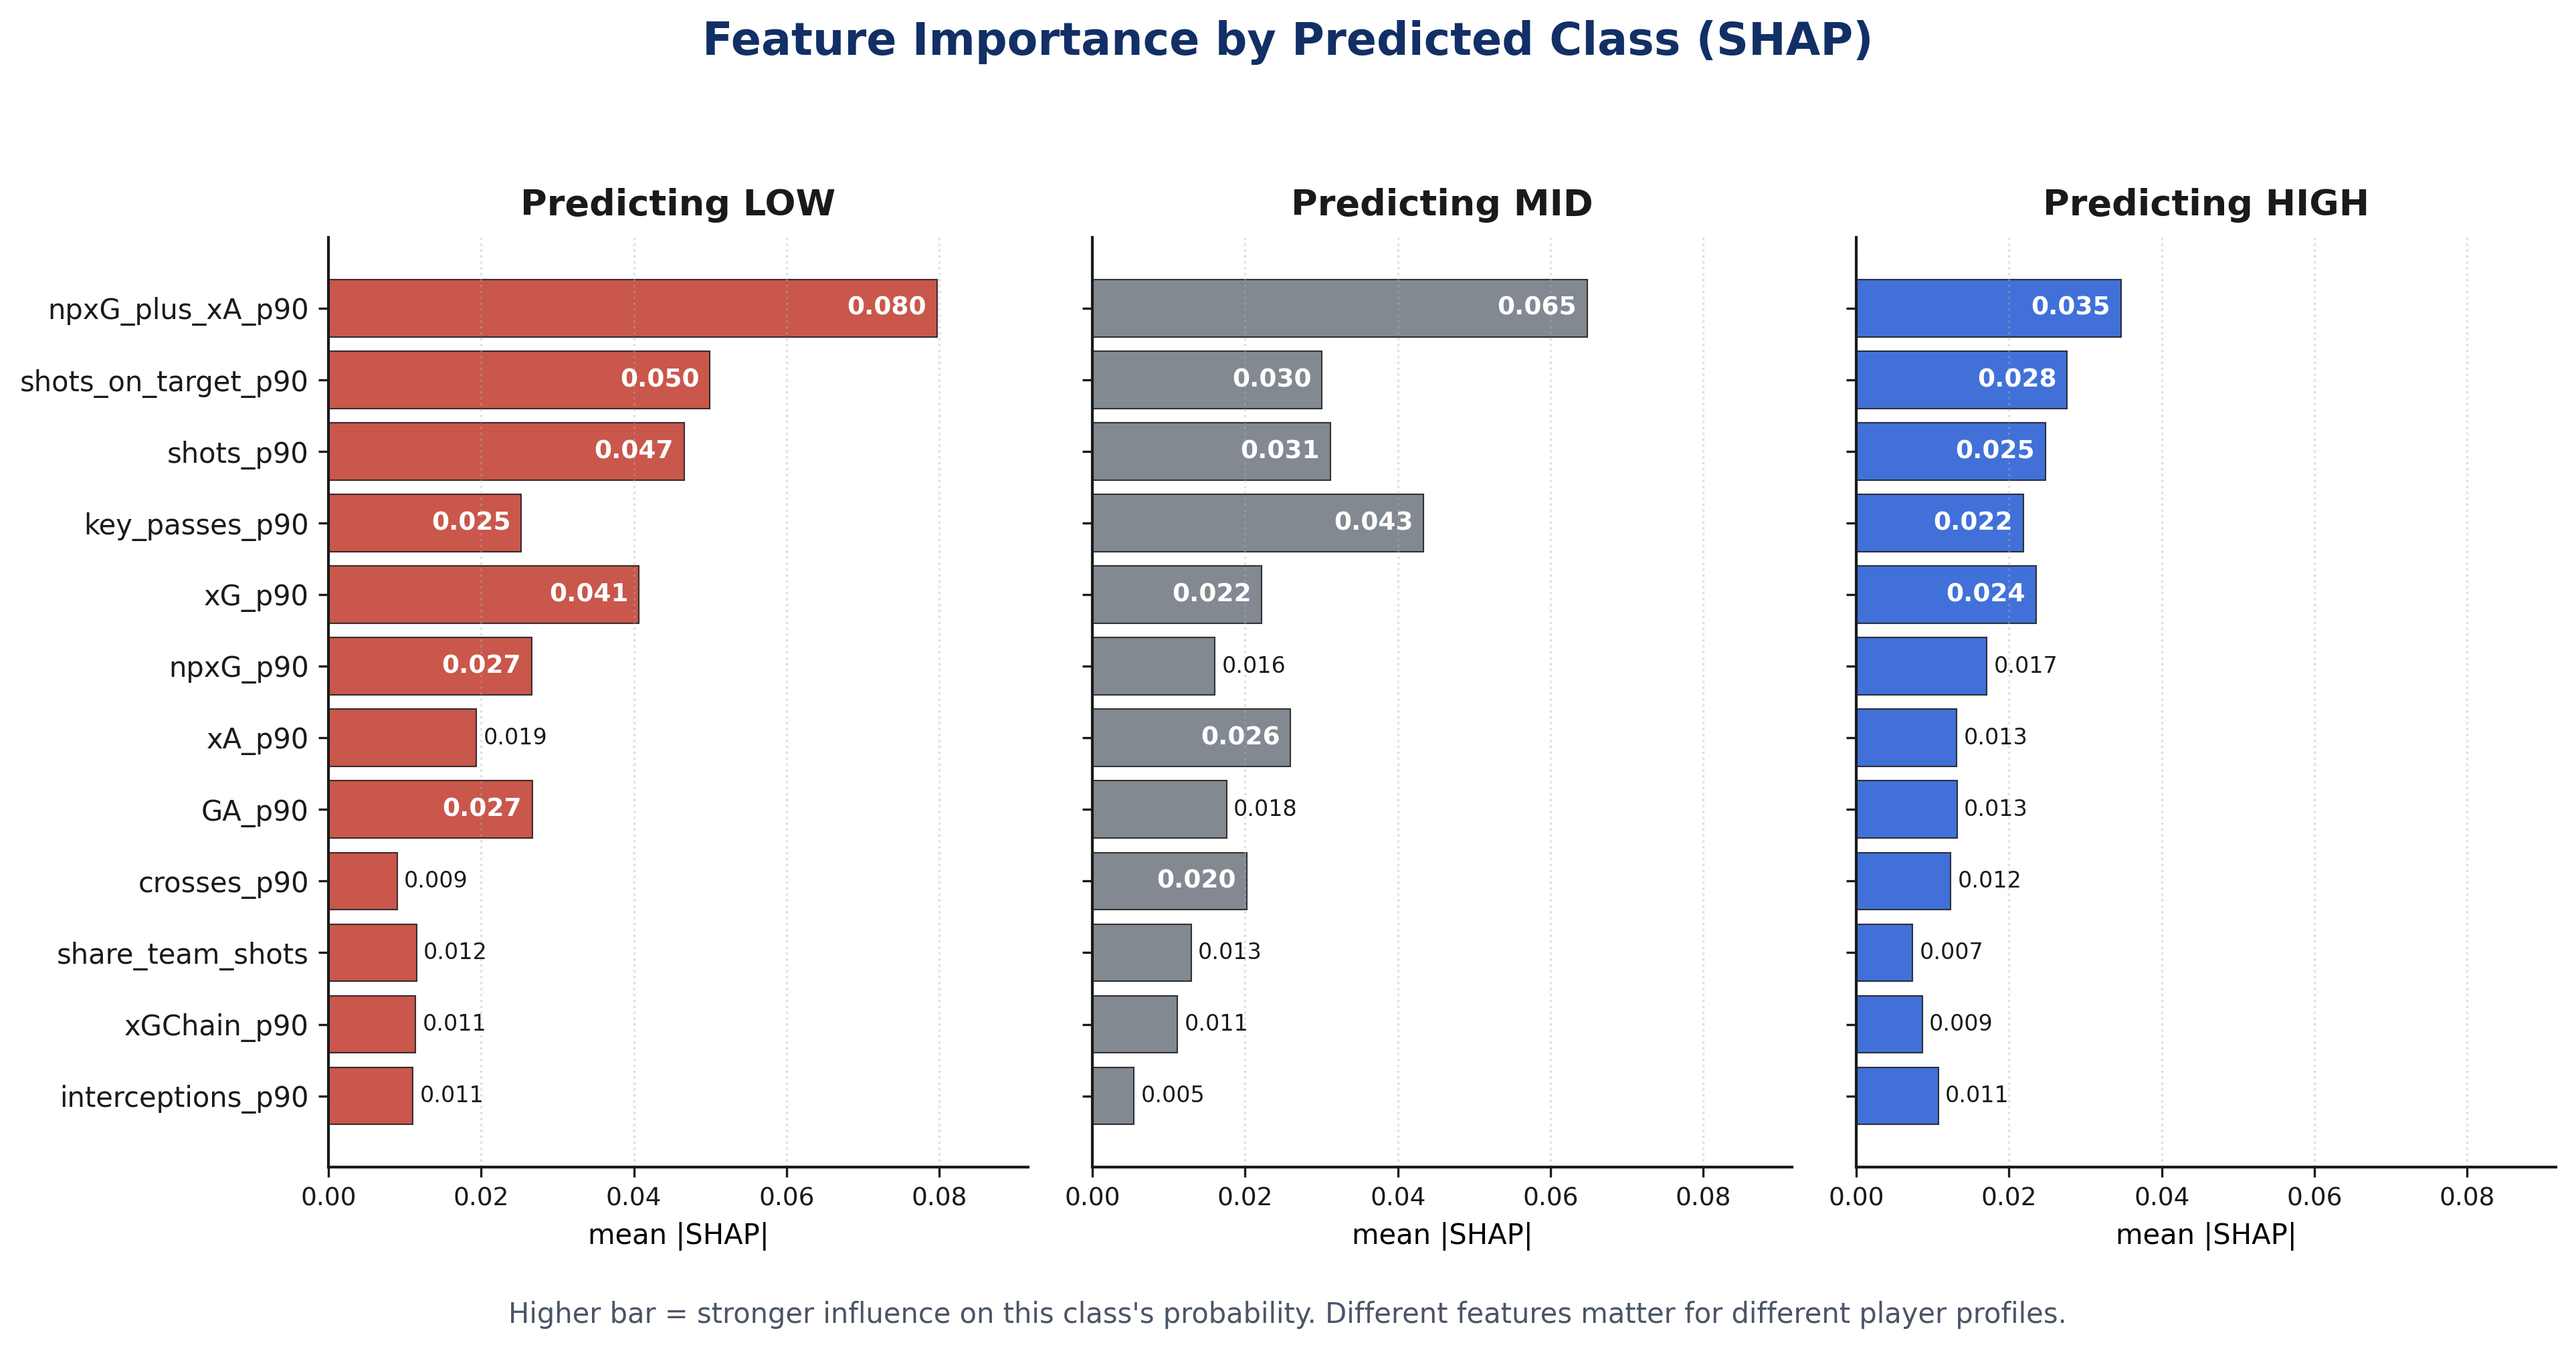
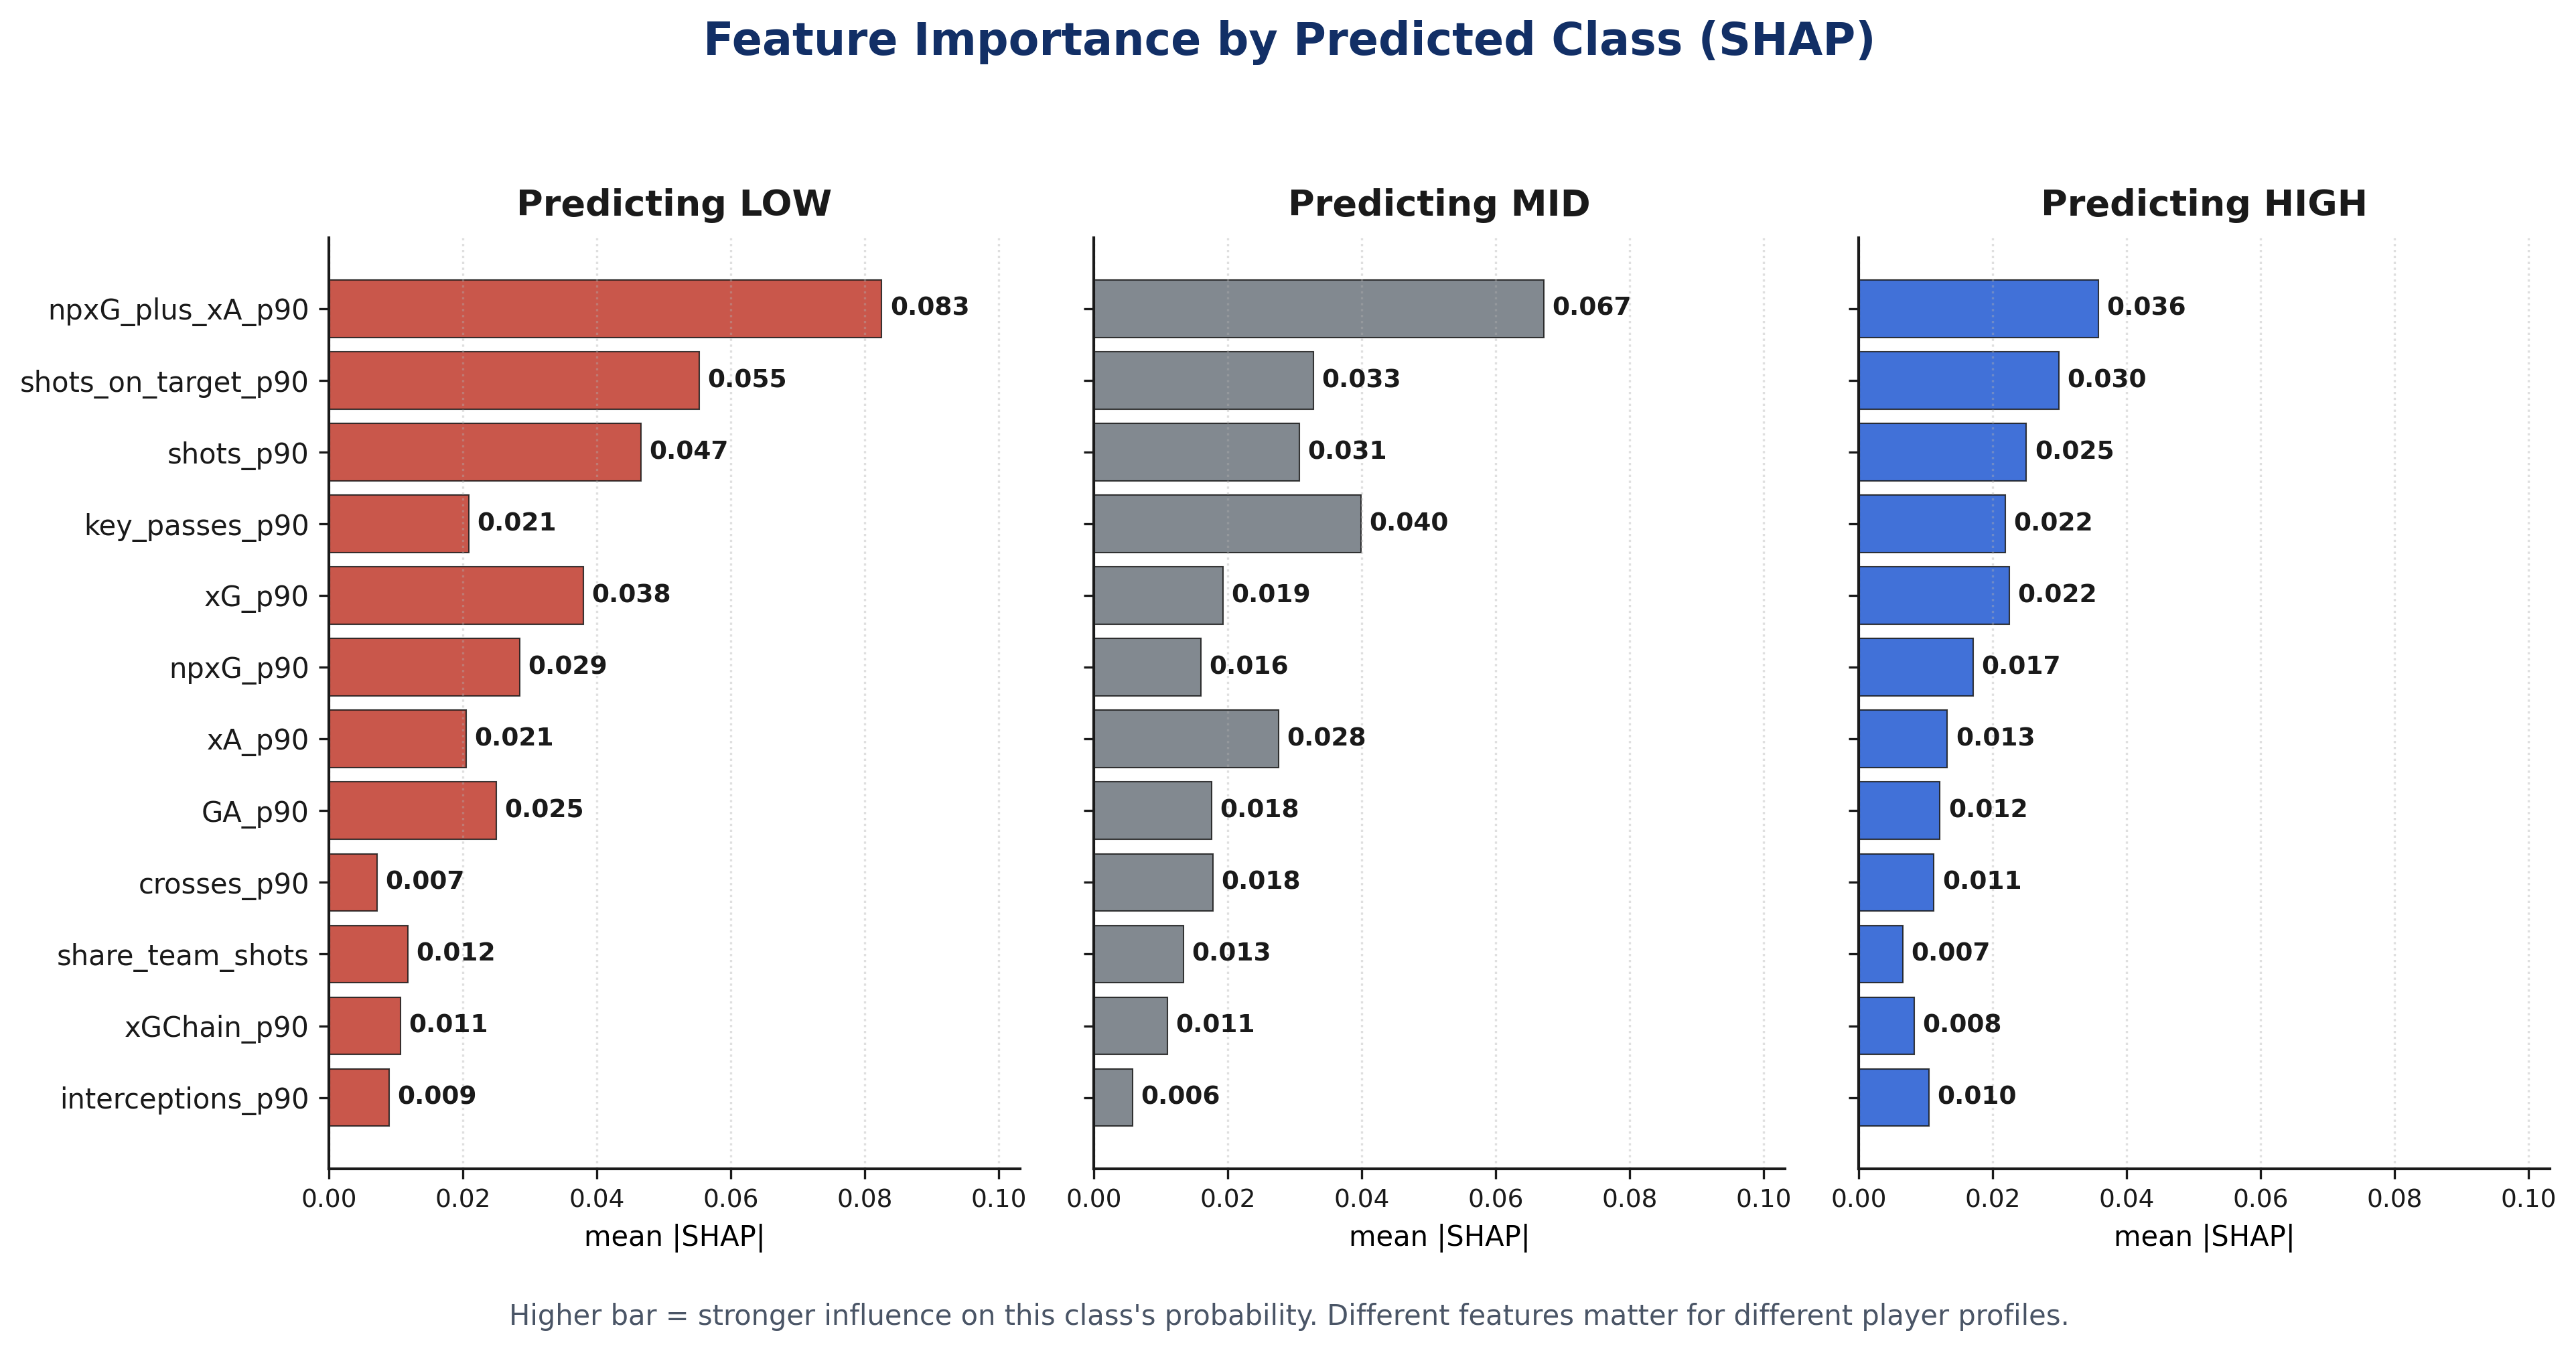
Update Stage 4 to use tuned model outputs; regenerate poster figures

diff --git a/src/stage4_figures.py b/src/stage4_figures.py
@@ -43,7 +43,7 @@ FIGS = Path("./figures")
 FIGS.mkdir(parents=True, exist_ok=True)
 
 # University of Reading inspired palette. Primary navy is UoR brand;
-# accent reds/greens used sparingly. Keep consistent across all 4 figs.
+# accent reds/greens used sparingly.
 NAVY   = "#122F66"   # primary
 BLUE   = "#1F58D2"   # secondary (header banner)
 LIGHT  = "#E8EFFA"   # very light blue background tint
@@ -58,7 +58,7 @@ CMAP_BLUES = LinearSegmentedColormap.from_list(
 CMAP_DIV = LinearSegmentedColormap.from_list(
     "uor_div", [RED, "#F8F9FA", BLUE])
 
-# Typography. Stick with one family so the four figures look unified.
+# Typography
 plt.rcParams.update({
     "font.family":      "DejaVu Sans",      # ships with matplotlib
     "font.size":        12,
@@ -83,7 +83,7 @@ logging.basicConfig(
 log = logging.getLogger("stage4")
 
 
-# ------------------------------------------------------------------ A) pipeline
+# pipeline
 
 def fig_a_pipeline(out_path: Path, metrics: dict) -> None:
     """
@@ -174,17 +174,31 @@ def fig_a_pipeline(out_path: Path, metrics: dict) -> None:
     log.info(f"  wrote {out_path}")
 
 
-# ------------------------------------------------------------------ B) confusion
+# confusion
 
 def fig_b_confusion(out_path: Path, metrics: dict) -> None:
     """
-    Confusion matrix for the headline RF classifier, with both raw counts
-    and row-normalized percentages in each cell. Headline metrics
-    (accuracy, macro-F1, per-class F1) annotated below.
+    Confusion matrix for the headline classifier (the best one in
+    metrics — works for both baseline RF and tuned RF/XGB outputs).
+    Both raw counts and row-normalized percentages in each cell.
+    Headline metrics annotated below.
     """
-    rf = next(r for r in metrics["classification"] if r["model"] == "RF")
-    cm = np.array(rf["confusion_matrix"])
-    labels = rf["labels"]
+    # Pick the best classifier in this metrics file. For Stage 5
+    # (tuned), the metrics dict has a 'best_classifier' key that
+    # tells us which row to highlight. For Stage 3 (baseline), we
+    # default to the RF row.
+    if "best_classifier" in metrics:
+        best_name = metrics["best_classifier"]
+        # The matching row will be e.g. "RF (tuned)" or "XGB (tuned)"
+        best = next(r for r in metrics["classification"]
+                    if r["model"].startswith(best_name))
+        title_model = f"{best_name} Tuned"
+    else:
+        best = next(r for r in metrics["classification"] if r["model"] == "RF")
+        title_model = "Random Forest Baseline"
+
+    cm = np.array(best["confusion_matrix"])
+    labels = best["labels"]
     cm_pct = cm / cm.sum(axis=1, keepdims=True) * 100
 
     fig, ax = plt.subplots(figsize=(8, 6.5))
@@ -210,8 +224,8 @@ def fig_b_confusion(out_path: Path, metrics: dict) -> None:
 
     # Title with headline metrics
     ax.set_title(
-        f"Next-Season Tertile Classification (Random Forest)\n"
-        f"Accuracy = {rf['accuracy']:.1%}   ·   Macro-F1 = {rf['macro_f1']:.2f}",
+        f"Next-Season Tertile Classification ({title_model})\n"
+        f"Accuracy = {best['accuracy']:.1%}   ·   Macro-F1 = {best['macro_f1']:.2f}",
         pad=18,
     )
 
@@ -220,7 +234,7 @@ def fig_b_confusion(out_path: Path, metrics: dict) -> None:
     # from the 'Predicted next-season tertile' axis label above it.
     FOOTER = "#4A5566"   # darker than GREY, still clearly secondary
     f1s = " · ".join(
-        f"{c.upper()}: F1={rf['report'][c]['f1-score']:.2f}" for c in labels
+        f"{c.upper()}: F1={best['report'][c]['f1-score']:.2f}" for c in labels
     )
     # Move closer to the bottom edge and make the text non-italic so
     # it reads more legibly at poster scale.
@@ -238,9 +252,9 @@ def fig_b_confusion(out_path: Path, metrics: dict) -> None:
     log.info(f"  wrote {out_path}")
 
 
-# ------------------------------------------------------------------ C) SHAP
+# SHAP
 
-def fig_c_shap(out_path: Path) -> None:
+def fig_c_shap(out_path: Path, shap_npz_path: Path) -> None:
     """
     Mean |SHAP| per feature, broken down by predicted class (low/mid/high).
 
@@ -248,7 +262,7 @@ def fig_c_shap(out_path: Path) -> None:
     which features drive predictions for different player profiles —
     directly relevant to the archetype/explainability story.
     """
-    z = np.load(MODELS / "shap_values.npz", allow_pickle=True)
+    z = np.load(shap_npz_path, allow_pickle=True)
     shap_low  = z["shap_low"]
     shap_mid  = z["shap_mid"]
     shap_high = z["shap_high"]
@@ -277,8 +291,9 @@ def fig_c_shap(out_path: Path) -> None:
 
     # Shared x-limit so panels are visually comparable. Without sharing,
     # the LOW panel (big SHAP values) and HIGH panel (small ones) would
-    # show same-length bars for very different magnitudes.
-    xmax = max(lo.max(), md.max(), hi.max()) * 1.15
+    # show same-length bars for very different magnitudes. Extra 25%
+    # margin (rather than 15%) because labels now sit OUTSIDE the bars.
+    xmax = max(lo.max(), md.max(), hi.max()) * 1.25
 
     for ax, title, vals, colour in zip(axes, titles, series, colours):
         bars = ax.barh(feat, vals, color=colour, alpha=0.85,
@@ -289,20 +304,15 @@ def fig_c_shap(out_path: Path) -> None:
         ax.tick_params(axis="x", labelsize=9)
         ax.set_xlabel("mean |SHAP|", fontsize=10)
         ax.grid(axis="x", linestyle=":", alpha=0.4)
-        # Value labels on EVERY bar. Short bars get their label OUTSIDE
-        # the bar in dark text; long bars get it INSIDE in white. This
-        # keeps the figure consistent (all bars labelled) without making
-        # the short bars unreadable.
-        threshold = xmax * 0.22
+        # Value labels on EVERY bar, uniformly styled: all placed just
+        # outside the bar end in dark text at the same size. This avoids
+        # the two-style inconsistency (white-inside for long bars,
+        # dark-outside for short bars) which reads as two different
+        # labelling systems on one chart.
         for bar, v in zip(bars, vals):
-            if v >= threshold:
-                ax.text(v - xmax * 0.015, bar.get_y() + bar.get_height()/2,
-                        f"{v:.3f}", ha="right", va="center",
-                        fontsize=9, color="white", fontweight="bold")
-            else:
-                ax.text(v + xmax * 0.01, bar.get_y() + bar.get_height()/2,
-                        f"{v:.3f}", ha="left", va="center",
-                        fontsize=8, color=DARK_TEXT)
+            ax.text(v + xmax * 0.012, bar.get_y() + bar.get_height()/2,
+                    f"{v:.3f}", ha="left", va="center",
+                    fontsize=9, color=DARK_TEXT, fontweight="bold")
 
     fig.suptitle("Feature Importance by Predicted Class (SHAP)",
                  fontsize=16, fontweight="bold", color=NAVY, y=0.97)
@@ -320,9 +330,9 @@ def fig_c_shap(out_path: Path) -> None:
     log.info(f"  wrote {out_path}")
 
 
-# ------------------------------------------------------------------ D) regression
+# regression
 
-def fig_d_regression(out_path: Path, metrics: dict) -> None:
+def fig_d_regression(out_path: Path, metrics: dict, preds_path: Path) -> None:
     """
     Predicted vs actual G+A/90 on the test set.
 
@@ -332,8 +342,17 @@ def fig_d_regression(out_path: Path, metrics: dict) -> None:
     predicted players annotated by name — grounds the abstract scatter
     in actual football.
     """
-    df = pd.read_csv(MODELS / "test_set_with_preds.csv")
-    rf = next(r for r in metrics["regression"] if r["model"] == "RF")
+    df = pd.read_csv(preds_path)
+
+    # Pick the best regressor (works for both baseline and tuned metrics).
+    if "best_regressor" in metrics:
+        best_name = metrics["best_regressor"]
+        best = next(r for r in metrics["regression"]
+                    if r["model"].startswith(best_name))
+        title_model = f"{best_name} Tuned"
+    else:
+        best = next(r for r in metrics["regression"] if r["model"] == "RF")
+        title_model = "Random Forest Baseline"
 
     x = df["true_GA_p90_nxt"].values
     y = df["pred_GA_p90_nxt"].values
@@ -358,9 +377,9 @@ def fig_d_regression(out_path: Path, metrics: dict) -> None:
     ax.set_xlabel("Actual next-season G+A per 90", fontweight="bold")
     ax.set_ylabel("Predicted next-season G+A per 90", fontweight="bold")
     ax.set_title(
-        f"Regression: Predicting Next-Season G+A/90 (Random Forest)\n"
-        f"R² = {rf['r2']:.3f}   ·   RMSE = {rf['rmse']:.3f}   ·   "
-        f"MAE = {rf['mae']:.3f}",
+        f"Regression: Predicting Next-Season G+A/90 ({title_model})\n"
+        f"R² = {best['r2']:.3f}   ·   RMSE = {best['rmse']:.3f}   ·   "
+        f"MAE = {best['mae']:.3f}",
         pad=18,
     )
     ax.grid(linestyle=":", alpha=0.4)
@@ -393,19 +412,33 @@ def fig_d_regression(out_path: Path, metrics: dict) -> None:
     log.info(f"  wrote {out_path}")
 
 
-# ------------------------------------------------------------------ main
+# main
 
 def main():
     log.info("=" * 60)
     log.info("Stage 4: poster figures")
     log.info("=" * 60)
 
-    metrics = json.load(open(MODELS / "metrics.json"))
+    # Prefer tuned outputs if Stage 5 has run; fall back to baseline
+    # if not. This way the same script regenerates the right figures
+    # whether you've tuned or not.
+    if (MODELS / "metrics_tuned.json").exists():
+        log.info("Using TUNED model outputs from Stage 5")
+        metrics_path = MODELS / "metrics_tuned.json"
+        shap_path    = MODELS / "shap_values_tuned.npz"
+        preds_path   = MODELS / "test_set_with_preds_tuned.csv"
+    else:
+        log.info("Using BASELINE model outputs from Stage 3")
+        metrics_path = MODELS / "metrics.json"
+        shap_path    = MODELS / "shap_values.npz"
+        preds_path   = MODELS / "test_set_with_preds.csv"
+
+    metrics = json.load(open(metrics_path))
 
     fig_a_pipeline (FIGS / "fig_a_pipeline.png",  metrics)
     fig_b_confusion(FIGS / "fig_b_confusion.png", metrics)
-    fig_c_shap     (FIGS / "fig_c_shap.png")
-    fig_d_regression(FIGS / "fig_d_regression.png", metrics)
+    fig_c_shap     (FIGS / "fig_c_shap.png",      shap_path)
+    fig_d_regression(FIGS / "fig_d_regression.png", metrics, preds_path)
 
     log.info("=" * 60)
     log.info("Done. Files:")